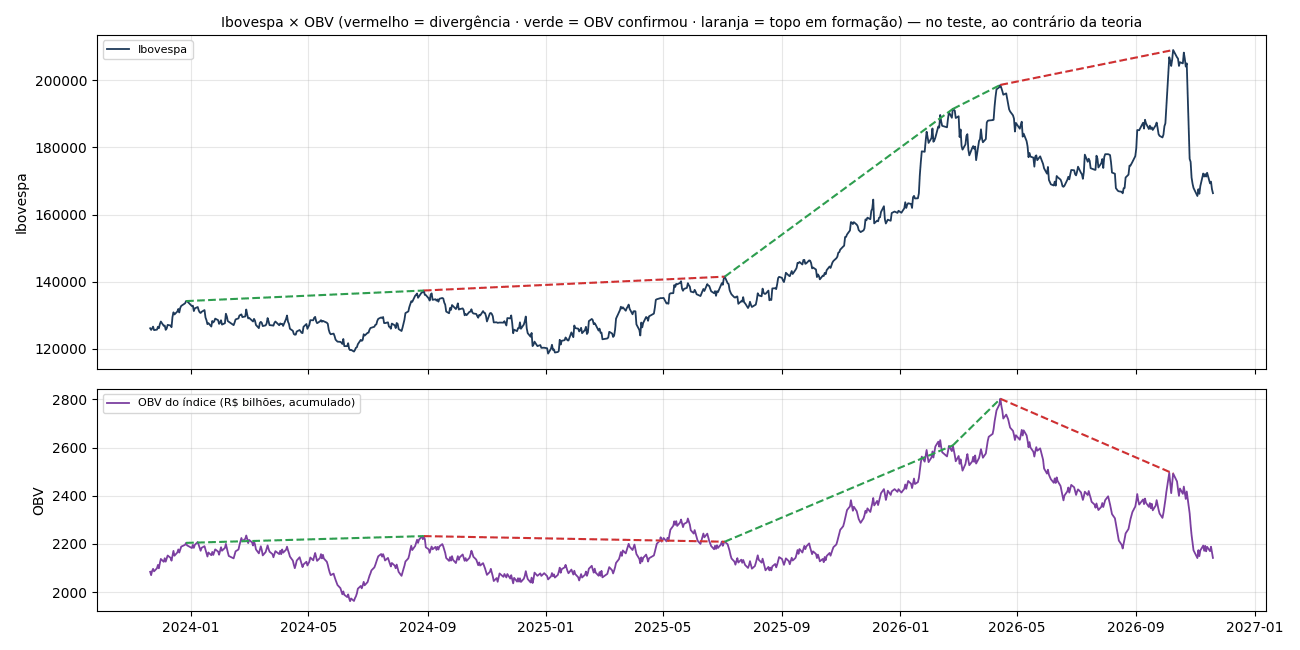
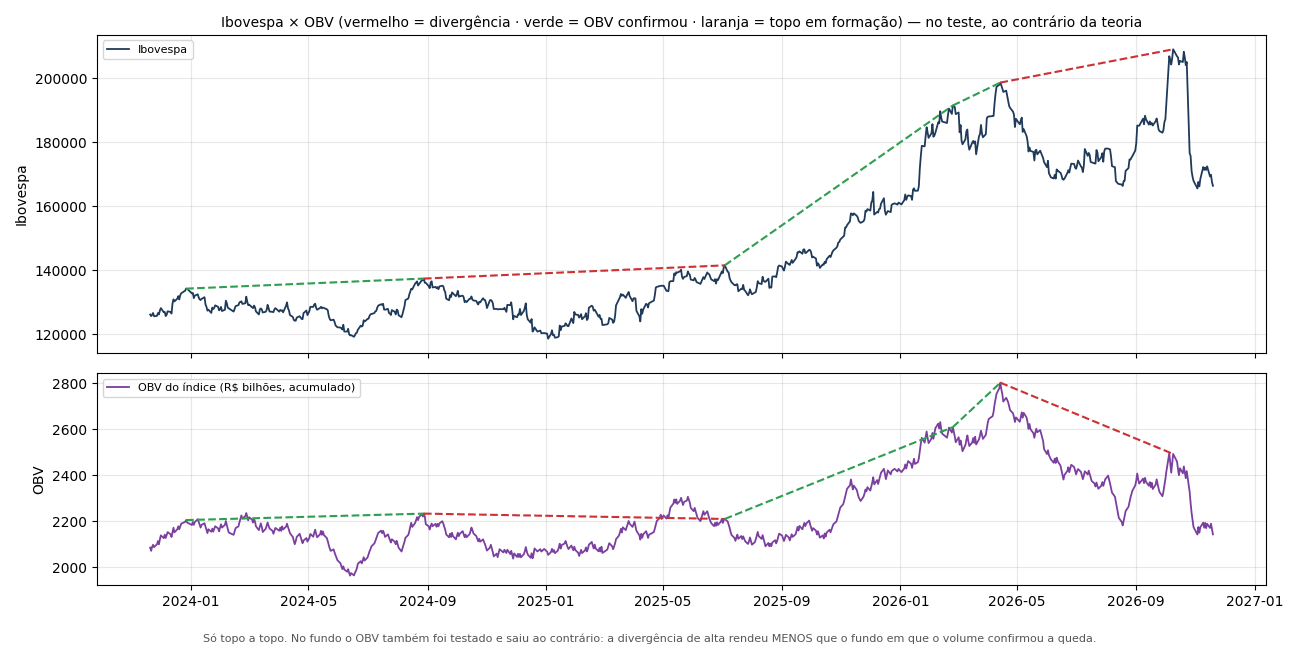
🤖 Auto: Sinal 22/11/2026 16:04

diff --git a/content/amplitude/avanco-declinio.md b/content/amplitude/avanco-declinio.md
@@ -1,12 +1,12 @@
 ---
 title: "📈 Avanço e declínio"
-date: 2026-11-20
+date: 2026-11-22
 pregao: 2026-11-19
 description: "Linha de avanço e declínio do Ibovespa: ações que subiram menos as que caíram, acumulado"
 tags: [amplitude]
 ---
 
-*Atualizado 20/11/2026 19:03 · fechamento de 19/11/2026.*
+*Atualizado 22/11/2026 16:04 · fechamento de 19/11/2026.*
 
 Em cada pregão, conta quantas ações da carteira do Ibovespa **subiram** e quantas **caíram**. O saldo do dia (subiram − caíram) é somado dia após dia: essa é a **linha de avanço e declínio**. Ela mostra se a alta do índice é de muitas ações ou só de algumas grandes. **Divergência:** o Ibovespa faz um **topo maior** que o topo anterior e a linha, nesse topo, fica **abaixo** do pico que tinha no topo anterior — a alta está ficando estreita.
 
@@ -76,12 +76,21 @@ Carteiras reconstruídas por liquidez, 2001–2026, treino 2001–2013 × teste 
 
 | Leitura | O que aconteceu depois | Confiança |
 |---|---|---|
-| ⚠ **Topo a topo** (topo maior no Ibovespa, linha abaixo do pico do topo anterior) | 60 pregões depois **−1,1%** e **−2,3%** × **+7,4%** e **+1,4%** quando a linha confirmou; queda de 10%+ em 60 pregões em **50%** e **38%** × 27% e 17% | 🟡 **indício**: as 10 medidas na mesma direção nos dois períodos, mas só 14 casos (acaso 8% no treino, 14–34% no teste) |
+| ⚠ **Topo a topo** (topo maior no Ibovespa, linha abaixo do pico do topo anterior) | 60 pregões depois **−1,1%** e **−2,3%** × **+7,4%** e **+1,4%** quando a linha confirmou; queda de 10%+ em 60 pregões em **50%** e **38%** × 27% e 17% | 🟡 **indício**: as 10 medidas na mesma direção nos dois períodos, mas só **14 casos** no teste de 23/10/2026 (acaso 8% no treino, 14–34% no teste) |
 | Dia de máxima (Ibovespa na máxima de 3, 6 ou 12 meses e a linha não, no mesmo dia) | igual aos outros dias de máxima | ❌ — pega muito atraso de poucos dias no meio da alta |
 | Grandes topos (queda de 20%+) | a linha virou antes em metade (2008: em out/2007; 2021: em jul/2020) | — |
-| Divergência de alta nos fundos | não ajudou | ❌ |
+| **Divergência de alta nos fundos** (Ibovespa na mínima de 63 pregões e a linha **não**) — 20 casos no treino, 19 no teste | 60 pregões depois: **−3,3%** no treino × **+7,5%** no teste; 20 pregões: −2,7% × +2,9% | ❌ **o sinal inverteu entre os períodos** — dizia uma coisa até 2013 e o contrário depois |
+| ⚠ **Fundo confirmado pela linha** (Ibovespa na mínima de 126 pregões **e a linha também**) — 13 e 18 casos | 60 pregões depois: **−6,5%** e **+8,7%**, contra −0,0% e +13,0% da média dos dias de mínima · acaso **9%** e **4%** | 🟡 **o único resultado dos fundos que passou nos dois períodos — e no sentido desfavorável** |
 
-**Aviso no Telegram** quando uma divergência é **confirmada** (o Ibovespa fecha 5% abaixo do topo), marcado como indício. Topos são raros — o sinal também é (14 vezes em 25 anos).
+> [!warning] O que isto diz para quem está procurando fundo
+>
+> O único sinal de fundo que sobreviveu ao teste é **desfavorável**. Quando o Ibovespa faz mínima de 126 pregões **e a linha de avanço e declínio também está na mínima** — a queda é larga, a maioria das ações caindo junto — os 60 pregões seguintes renderam **menos** que a média dos outros fundos, nos dois períodos, com acaso de 9% e 4%. No período bom isso foi +8,7% contra +13,0%; no ruim, −6,5% contra 0,0%.
+>
+> **Queda larga não marcou fundo: marcou continuação.** O que isto sugere **não** fazer é tratar "todo mundo caindo junto" como capitulação e ponto de entrada — é justamente a configuração que rendeu menos. O que sugere observar é o oposto da teoria clássica: historicamente o melhor fundo foi aquele em que a amplitude **não** acompanhou o índice até o fim.
+>
+> São 13 e 18 casos, e a comparação é contra a média dos dias de mínima — não contra a divergência. É **indício, não lei**, e o risco é de quem opera.
+
+**Aviso no Telegram** quando uma divergência é **confirmada** (o Ibovespa fecha 5% abaixo do topo), marcado como indício. Topos são raros — o sinal também é: **15 vezes** em **42** topos maiores desde 2001.
 
 ## Os grandes topos (Ibovespa caiu 20% ou mais depois)
 
